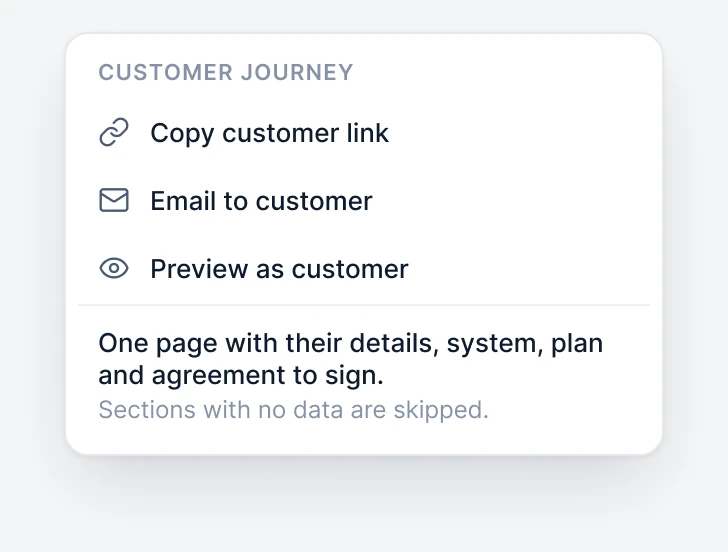
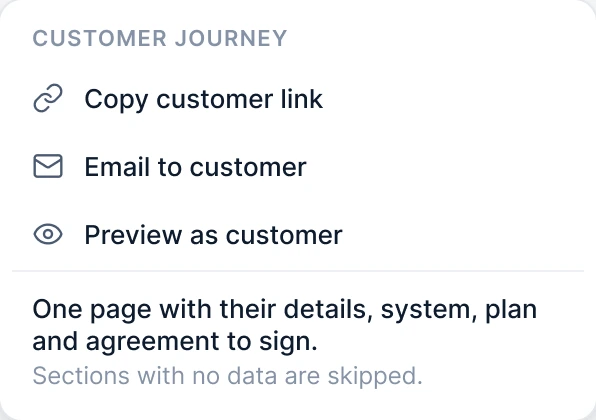
Advertorial: phone-sized UI crops, unclipped water card, halo-free share menu

Changed region(s): [[0.0302, 0.1857, 0.9362, 0.9286], [0.0604, 0.0619, 0.4832, 0.1548]]

diff --git a/blog/why-water-reps-hear-well-think-about-it.html b/blog/why-water-reps-hear-well-think-about-it.html
@@ -65,10 +65,11 @@ gtag('config', 'AW-16631843401');
 /* Real ClearDeals UI cards (App UI V2), shown near native size on a cream stage so nothing reads squeezed */
 .v2-post .ui-stage{margin:22px 0 34px;}
 .v2-post .ui-stage .stage{background:var(--cream-mid);border:1px solid var(--cream-dark);border-radius:20px;padding:clamp(16px,4vw,32px);display:flex;justify-content:center;}
+.v2-post .ui-stage picture{display:block;width:100%;}
 .v2-post .ui-stage img{display:block;width:100%;height:auto;border-radius:14px;box-shadow:var(--shadow-float);background:#fff;}
 .v2-post .ui-stage figcaption{margin-top:12px;font-size:14px;line-height:1.57;color:var(--ink-muted);text-align:center;}
 .v2-post .ui-stage.narrow img{max-width:402px;}
-.v2-post .ui-stage.menu img{max-width:364px;box-shadow:none;background:none;}
+.v2-post .ui-stage.menu img{max-width:298px;}
 .v2-post .adv-soft{display:flex;align-items:center;justify-content:space-between;gap:16px;flex-wrap:wrap;background:var(--blue-light);border:1px solid #dbeafe;border-radius:16px;padding:20px 22px;margin:34px 0;}
 .v2-post .adv-soft p{margin:0;flex:1 1 280px;font-size:16px;line-height:1.55;}
 .v2-post .post-body .adv-soft a{font-weight:600;white-space:nowrap;}
@@ -83,7 +84,7 @@ gtag('config', 'AW-16631843401');
 .adv-sticky .t b{display:block;color:#fff;font-size:15px;font-weight:600;}
 .adv-sticky a{flex-shrink:0;display:inline-flex;align-items:center;min-height:44px;padding:11px 18px;border-radius:9px;background:#fff;color:var(--ink);font-weight:600;font-size:15px;}
 .adv-sticky a:focus-visible,.v2-post .cta-btn:focus-visible{outline:3px solid var(--blue);outline-offset:3px;}
-@media (max-width:640px){.adv-sticky .t span{display:none;}.v2-post .post-body .lead{font-size:21px;}}
+@media (max-width:640px){.v2-post .ui-stage .stage{padding:12px;border-radius:16px;}.v2-post .ui-stage.narrow .stage,.v2-post .ui-stage.menu .stage{padding:20px 14px;}.adv-sticky .t span{display:none;}.v2-post .post-body .lead{font-size:21px;}}
 @media (prefers-reduced-motion:reduce){.adv-sticky{transition:none;}}
 </style>
 </head>
@@ -175,7 +176,7 @@ gtag('config', 'AW-16631843401');
 
     <div class="step"><span class="step-n">1</span><p><strong>Their water, explained.</strong> Your rep logs the in-home test, and the water report for the homeowner’s ZIP code sits right beside it. It’s their water, not a brochure.</p></div>
     <figure class="ui-stage">
-      <div class="stage"><img src="/uploads/advertorial/ui-water-report.webp" width="776" height="475" loading="lazy" alt="ClearDeals water step: contaminants detected in the local utility's testing, like PFOA and lead, each against its EPA limit."></div>
+      <div class="stage"><picture><source media="(max-width:640px)" srcset="/uploads/advertorial/ui-water-report-m.webp" width="383" height="278"><img src="/uploads/advertorial/ui-water-report.webp" width="776" height="453" loading="lazy" alt="ClearDeals water step: contaminants detected in the local utility's testing, like PFOA and lead, each against its EPA limit."></picture></div>
       <figcaption>What the local utility’s own testing detected, shown against EPA limits. (Demo data.)</figcaption>
     </figure>
 
@@ -183,13 +184,13 @@ gtag('config', 'AW-16631843401');
 
     <div class="step"><span class="step-n">3</span><p><strong>Options they can compare.</strong> Good, better, best, built from <em>your</em> catalog in a few taps, with a maintenance plan attached. That plan bills monthly, so every install adds recurring revenue.</p></div>
     <figure class="ui-stage">
-      <div class="stage"><img src="/uploads/advertorial/ui-options-good-better-best.webp" width="1120" height="617" loading="lazy" alt="Three options side by side, Good, Better and Best, each with a system photo, an estimated monthly price and a Choose button."></div>
+      <div class="stage"><picture><source media="(max-width:640px)" srcset="/uploads/advertorial/ui-options-m.webp" width="363" height="618"><img src="/uploads/advertorial/ui-options-good-better-best.webp" width="1120" height="617" loading="lazy" alt="Three options side by side, Good, Better and Best, each with a system photo, an estimated monthly price and a Choose button."></picture></div>
       <figcaption>Good, better, best, from your own catalog. (Demo dealer.)</figcaption>
     </figure>
 
     <div class="step"><span class="step-n">4</span><p><strong>The money, side by side.</strong> What hard water already costs them every month, against owning the system. Most homeowners have never seen it laid out this way.</p></div>
     <figure class="ui-stage">
-      <div class="stage"><img src="/uploads/advertorial/ui-spending-vs-own.webp" width="760" height="394" loading="lazy" alt="Current spending of $181 a month broken into soap, energy, appliances, plumbing, clothing and bottled water, next to owning the system for $108 a month."></div>
+      <div class="stage"><picture><source media="(max-width:640px)" srcset="/uploads/advertorial/ui-spending-vs-own-m.webp" width="374" height="802"><img src="/uploads/advertorial/ui-spending-vs-own.webp" width="760" height="394" loading="lazy" alt="Current spending of $181 a month broken into soap, energy, appliances, plumbing, clothing and bottled water, next to owning the system for $108 a month."></picture></div>
       <figcaption>Current spending vs. owning the system. (Demo data.)</figcaption>
     </figure>
 
@@ -208,7 +209,7 @@ gtag('config', 'AW-16631843401');
     <p>Here’s what usually happens next: your rep drives back across town. Or calls. And calls again. And the deal gets colder every day.</p>
     <p>Here’s the other way: your rep sends <strong>one link</strong>.</p>
     <figure class="ui-stage menu">
-      <div class="stage"><img src="/uploads/advertorial/ui-share-customer-journey.webp" width="364" height="276" loading="lazy" alt="Share menu, Customer journey: Copy customer link, Email to customer, Preview as customer."></div>
+      <div class="stage"><img src="/uploads/advertorial/ui-share-customer-journey.webp" width="298" height="210" loading="lazy" alt="Share menu, Customer journey: Copy customer link, Email to customer, Preview as customer."></div>
       <figcaption>Share → Customer journey. Copy the link or email it in one tap.</figcaption>
     </figure>
     <p>The homeowner opens it on their phone, from the couch, and gets the same experience your rep gave at the table: their water, their options, their savings. Then they finance or pay, and sign.</p>
